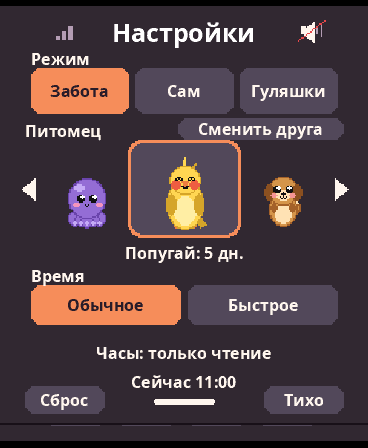
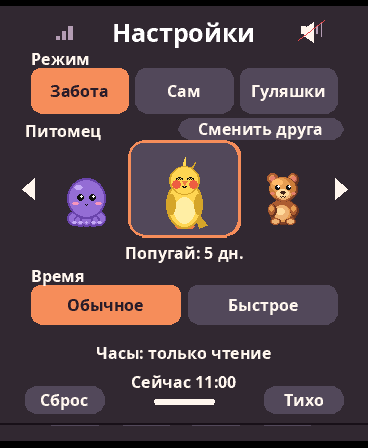
Refresh the Russian AMOLED gallery with native frames and the Caramel redesign

diff --git a/docs/SCREENSHOTS_RU.md b/docs/SCREENSHOTS_RU.md
@@ -2,7 +2,7 @@
 
 [← На главную](../README.md) · [Бйорни крупным планом](#бйорни-крупным-планом)
 
-Все кадры сняты в эмуляторе **AMOLED V1, 368×448** из русской сборки [PR #2](https://github.com/Medvedolog/medvegoshi/pull/2). Реплики, часы и метки полей набраны пропорциональным Noto Sans Bold в родном разрешении, как и меню. Слева игровой момент, справа тот же питомец в меню «Настройки». Подписи поясняют сцену; реплики в кавычках взяты с экрана. Нажми на кадр, чтобы увеличить.
+Все кадры сняты в эмуляторе **AMOLED V1, 368×448** из русской сборки [PR #2](https://github.com/Medvedolog/medvegoshi/pull/2). Реплики, часы и метки полей набраны пропорциональным Noto Sans Bold в родном разрешении, как и меню. В крупном режиме сцена рисуется прямо в 368×435 внутри панели, без растягивания кадра 240×284. Карамелька получила новый облик медвежонка с несколькими тонами шерсти и мелкими бликами на AMOLED. Слева игровой момент, справа тот же питомец в меню «Настройки». Подписи поясняют сцену; реплики в кавычках взяты с экрана. Нажми на кадр, чтобы увеличить.
 
 | Питомец и сцена | В игре | В настройках |
 |---|:---:|:---:|
@@ -16,8 +16,8 @@
 | **8. Пришелец**<br>Прыжок на прогулке<br>«Поле 1» | <a href="img/medvegoshi-ru/gallery/et-play.png"><img src="img/medvegoshi-ru/gallery/et-play.png" width="174" alt="Пришелец — Прыжок на прогулке"></a> | <a href="img/medvegoshi-ru/gallery/et-settings.png"><img src="img/medvegoshi-ru/gallery/et-settings.png" width="174" alt="Пришелец в меню Настройки"></a> |
 | **9. Лягушонок**<br>Лекарство<br>«Мне лучше!» | <a href="img/medvegoshi-ru/gallery/sapinho-play.png"><img src="img/medvegoshi-ru/gallery/sapinho-play.png" width="174" alt="Лягушонок — Лекарство"></a> | <a href="img/medvegoshi-ru/gallery/sapinho-settings.png"><img src="img/medvegoshi-ru/gallery/sapinho-settings.png" width="174" alt="Лягушонок в меню Настройки"></a> |
 | **10. Пип**<br>Самостоятельный режим<br>«17:00» | <a href="img/medvegoshi-ru/gallery/pip-play.png"><img src="img/medvegoshi-ru/gallery/pip-play.png" width="174" alt="Пип — Самостоятельный режим"></a> | <a href="img/medvegoshi-ru/gallery/pip-settings.png"><img src="img/medvegoshi-ru/gallery/pip-settings.png" width="174" alt="Пип в меню Настройки"></a> |
-| **10. Жирафик**<br>Взрослый на прогулке<br>«Поле 1» | <a href="img/medvegoshi-ru/gallery/girafa-play.png"><img src="img/medvegoshi-ru/gallery/girafa-play.png" width="174" alt="Жирафик — Взрослый на прогулке"></a> | <a href="img/medvegoshi-ru/gallery/girafa-settings.png"><img src="img/medvegoshi-ru/gallery/girafa-settings.png" width="174" alt="Жирафик в меню Настройки"></a> |
-| **11. Бйорни**<br>Вечерние гуляшки<br>«Поле 1» | <a href="img/medvegoshi-ru/gallery/bjorni-play.png"><img src="img/medvegoshi-ru/gallery/bjorni-play.png" width="174" alt="Бйорни — Вечерние гуляшки"></a> | <a href="img/medvegoshi-ru/gallery/bjorni-settings.png"><img src="img/medvegoshi-ru/gallery/bjorni-settings.png" width="174" alt="Бйорни в меню Настройки"></a> |
+| **11. Жирафик**<br>Взрослый на прогулке<br>«Поле 1» | <a href="img/medvegoshi-ru/gallery/girafa-play.png"><img src="img/medvegoshi-ru/gallery/girafa-play.png" width="174" alt="Жирафик — Взрослый на прогулке"></a> | <a href="img/medvegoshi-ru/gallery/girafa-settings.png"><img src="img/medvegoshi-ru/gallery/girafa-settings.png" width="174" alt="Жирафик в меню Настройки"></a> |
+| **12. Бйорни**<br>Вечерние гуляшки<br>«Поле 1» | <a href="img/medvegoshi-ru/gallery/bjorni-play.png"><img src="img/medvegoshi-ru/gallery/bjorni-play.png" width="174" alt="Бйорни — Вечерние гуляшки"></a> | <a href="img/medvegoshi-ru/gallery/bjorni-settings.png"><img src="img/medvegoshi-ru/gallery/bjorni-settings.png" width="174" alt="Бйорни в меню Настройки"></a> |
 
 ## Бйорни крупным планом
 
@@ -33,9 +33,9 @@
 
 ## Как питомцы кувыркаются
 
-Кот, Капи и Слон теперь хорошо различаются даже в меню. Серия из эмулятора показывает, как поворачивается весь спрайт: глаза, лапы, уши, хвост и хобот остаются на месте относительно тела.
+Карамелька, Кот, Капи и Слон в пяти фазах кувырка. Весь спрайт поворачивается одним слоем: глаза, лапы, уши, хвост и хобот остаются на месте относительно тела.
 
-[![Пять фаз кувырка у Кота, Капи и Слона](img/medvegoshi-ru/pets-turn.png)](img/medvegoshi-ru/pets-turn.png)
+[![Пять фаз кувырка у Карамельки, Кота, Капи и Слона](img/medvegoshi-ru/pets-turn.png)](img/medvegoshi-ru/pets-turn.png)
 
 ### Как переснять
 

diff --git a/README.md b/README.md
@@ -36,11 +36,11 @@
 
 В русской версии переведены игровое меню, выбор питомца, настройки часов и звука, подсказки и реплики. Три режима: **«Забота»** — кормить, лечить и играть; **«Сам»** — питомец сам решает, чем заняться; **«Гуляшки»** — бегать, прыгать и собирать монеты.
 
-На **AMOLED V1** меню, диалоги и метки игрового экрана рисуются в родном разрешении пропорциональным **Noto Sans Bold** без засечек: буквы держат общую базовую линию, края сглажены, а цифры одинаковой ширины, чтобы часы не «прыгали». Глифы хранятся в компактном растровом виде, TTF на устройство не нужен. На **IPS** для кириллицы используется компактный растровый шрифт на основе **DejaVu Sans Mono**. [Шрифт AMOLED и лицензия OFL](https://github.com/Medvedolog/medvegoshi/blob/feature/russian-game-ui/ports/v1_menu_font.py) · [Лицензия шрифта IPS](https://github.com/Medvedolog/medvegoshi/blob/feature/russian-game-ui/docs/FONT_LICENSE.md).
+На **AMOLED V1** крупная сцена рисуется прямо в области 368×435, без растягивания старого кадра. Меню, диалоги и метки игрового экрана рисуются в родном разрешении пропорциональным **Noto Sans Bold** без засечек: буквы держат общую базовую линию, края сглажены, а цифры одинаковой ширины, чтобы часы не «прыгали». Глифы хранятся в компактном растровом виде, TTF на устройство не нужен. На **IPS** для кириллицы используется компактный растровый шрифт на основе **DejaVu Sans Mono**. [Шрифт AMOLED и лицензия OFL](https://github.com/Medvedolog/medvegoshi/blob/feature/russian-game-ui/ports/v1_menu_font.py) · [Лицензия шрифта IPS](https://github.com/Medvedolog/medvegoshi/blob/feature/russian-game-ui/docs/FONT_LICENSE.md).
 
 ### 12 питомцев
 
-Девять из Capigoshi: **Капи, Слон, Утка, Осьминог, Попугай, Карамелька, Кот, Пришелец и Лягушонок**. В MedveGoshi к ним добавились **Пип, Жирафик и Бйорни**. У каждого своё сохранение: можно сменить питомца, а потом вернуться к прежнему прогрессу. Новые персонажи подключаются через [модульный каталог Zoo](https://github.com/Medvedolog/medvegoshi/tree/feature/russian-game-ui/zoo).
+Девять из Capigoshi: **Капи, Слон, Утка, Осьминог, Попугай, Карамелька, Кот, Пришелец и Лягушонок**. В русской версии Карамелька теперь медвежонок с карамельной шерстью и светлыми подушечками лап; прежнее сохранение остаётся совместимым. В MedveGoshi к ним добавились **Пип, Жирафик и Бйорни**. У каждого своё сохранение: можно сменить питомца, а потом вернуться к прежнему прогрессу. Новые персонажи подключаются через [модульный каталог Zoo](https://github.com/Medvedolog/medvegoshi/tree/feature/russian-game-ui/zoo).
 
 ## Откуда проект
 
